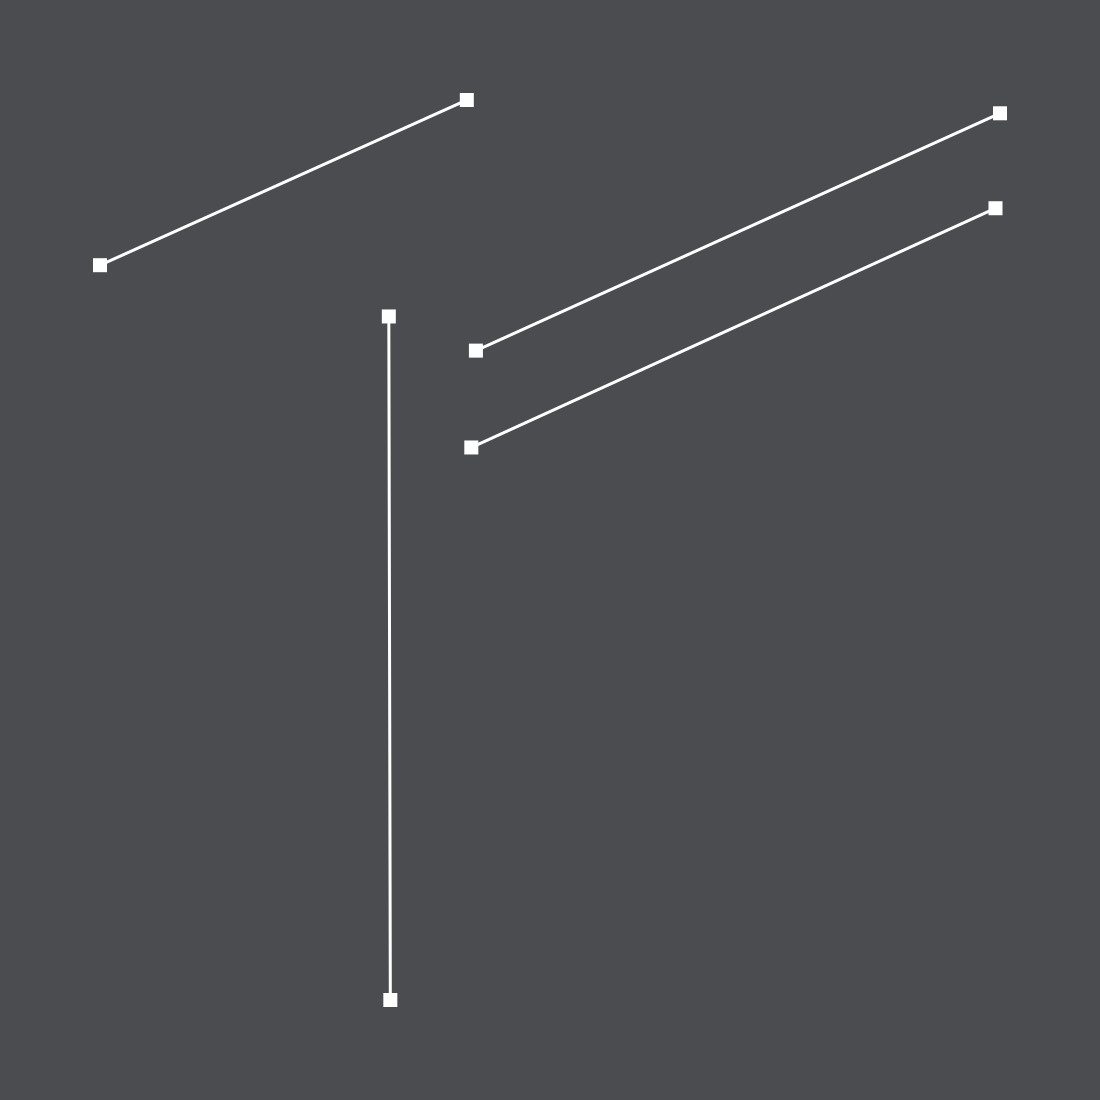
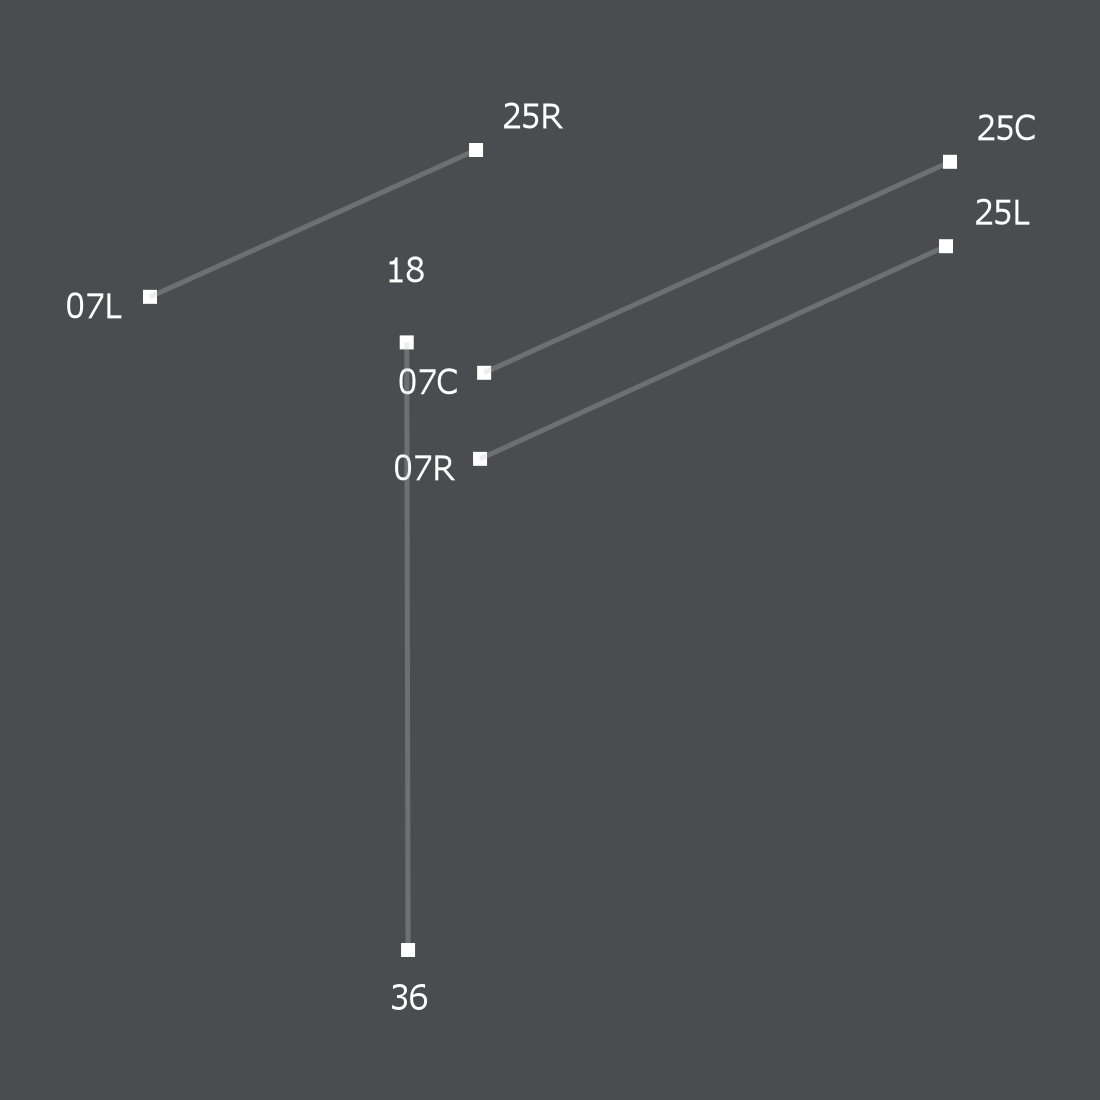
add runway mark

diff --git a/main.js b/main.js
@@ -10,28 +10,41 @@ async function parse(ICAO){
     .then(res => res.data)
     .catch(error => console.log(error));
 
+    var RWY_num=[], RWY_dir=[];
     var RWY_lat=[], RWY_lon=[];
+
+    function getHeading(RWY_num, RWY_hdg){
+        if(RWY_hdg==''){
+            RWY_num = RWY_num.replace(/[A-Za-z]/g, ''); // Remove Alphabet
+            if (RWY_num.startsWith('0')) { RWY_num = RWY_num.substring(1) * 10; }
+            else {RWY_num = RWY_num * 10; }
+
+            return RWY_num;
+        } else { return RWY_hdg; } 
+    }
+
     for(i=0; i<json_ADB.runways.length; i++){
         let data = json_ADB.runways[i];
+        // Latitude
         RWY_lat.push(data.le_latitude_deg);
         RWY_lat.push(data.he_latitude_deg);
+        // Longitude
         RWY_lon.push(data.le_longitude_deg);
         RWY_lon.push(data.he_longitude_deg);
+        // Runway Number
+        RWY_num.push(data.le_ident);
+        RWY_num.push(data.he_ident);
+        // Runway Heading
+        let RWYHDG_le = json_ADB.runways[i].le_heading_degT;
+        let RWYHDG_he = json_ADB.runways[i].he_heading_degT;
+        RWY_dir.push(getHeading(data.le_ident, RWYHDG_le));
+        RWY_dir.push(getHeading(data.he_ident, RWYHDG_he));
     }
-    return [RWY_lat, RWY_lon];
+    return [RWY_lat, RWY_lon, RWY_num, RWY_dir];
 }
 
-function draw_runway(lat, lon, ICAO){
-    // draw using the canvas
-    const cvs = createCanvas(1100, 1100);   // canvas size (Square for better result)
-    const ctx = cvs.getContext('2d');
-    const gap = 100;    //  white space
-    const canvasSize = 1100-2*gap;  // canvas width - 2 x gap
-
-    // background color
-    ctx.fillStyle = "#4a4c4f";
-    ctx.fillRect(0, 0, cvs.width, cvs.height);
-
+async function logic(RWY_dir, lat, lon, canvasSize){
+    // Adjust the position to fit the size of canvas
     let longitudes = lon.map(Number);
     let latitudes = lat.map(Number);
 
@@ -46,19 +59,75 @@ function draw_runway(lat, lon, ICAO){
         return [x, y];
     });
 
+    function logic_(x, y, deg, r){
+        const pi = Math.PI;
+        if(deg>=0 && deg<=90){
+            deg = 90-deg;
+            let rad = deg*pi/180;
+            return [x+r*Math.cos(rad), y+r*Math.sin(rad)];
+        } else if(deg>90 && deg<=180){
+            deg = deg-90;
+            let rad = deg*pi/180;
+            return [x+r*Math.cos(rad), y-r*Math.sin(rad)];
+        } else if(deg>180 && deg<=270){
+            deg = 270-deg;
+            let rad = deg*pi/180;
+            return [x-r*Math.cos(rad), y-r*Math.sin(rad)];
+        } else if(deg>270 && deg<360){
+            deg = deg-270;
+            let rad = deg*pi/180;
+            return [x-r*Math.cos(rad), y+r*Math.sin(rad)];
+        }
+    }
+
+    var mark_point=[];
+    for(i=0; i<RWY_dir.length; i++){
+        let hdg = Math.floor(Number(RWY_dir[i]));
+        let opposite_hdg = hdg>180 ? hdg-180 : hdg+180;
+        mark_point.push(logic_(adjusted_point[i][0], adjusted_point[i][1], opposite_hdg, 60));
+    }
+    return [mark_point, adjusted_point];
+}
+
+async function draw_runway(RWY_num, RWY_lat, RWY_lon, RWY_dir, ICAO){
+    // draw using the canvas
+    const cvs = createCanvas(1100, 1100);   // canvas size (Square for better result)
+    const ctx = cvs.getContext('2d');
+    const gap = 150;    //  white space
+    const canvasSize = 1100-2*gap;  // canvas width - 2 x gap
+
+    let point_array = await logic(RWY_dir, RWY_lat, RWY_lon, canvasSize);
+    const mark_point = point_array[0];
+    const adjusted_point = point_array[1];
+
+    // background color
+    ctx.fillStyle = "#4a4c4f";
+    ctx.fillRect(0, 0, cvs.width, cvs.height);
+
     ctx.fillStyle = "#ffffff";
-    for(i=0; i<adjusted_point.length; i++){
+    for(i=0; i<RWY_lat.length; i++){
         if((i+1)%2==0){
             ctx.beginPath();    
             ctx.moveTo(adjusted_point[i-1][0]+gap, 1100-(adjusted_point[i-1][1]+gap));
             ctx.lineTo(adjusted_point[i][0]+gap, 1100-(adjusted_point[i][1]+gap));
-            ctx.strokeStyle = '#ffffff';
-            ctx.lineWidth=3;
+            ctx.strokeStyle = '#c2c2c2';
+            ctx.lineWidth=5;
+            ctx.globalAlpha = 0.3;
             ctx.stroke();
         }
+        ctx.globalAlpha = 1;
         ctx.beginPath();
         ctx.roundRect(adjusted_point[i][0]+gap-7, 1100-(adjusted_point[i][1]+gap)-7, 14, 14);
         ctx.fill();
+        try{
+            ctx.beginPath();
+            ctx.font = '35px Impact';
+            let rwy_mark = RWY_num[i];
+            let textwidth = ctx.measureText(rwy_mark).width;
+            ctx.fillText(RWY_num[i], mark_point[i][0]+gap-textwidth/2, 1100-(mark_point[i][1]+gap))
+        } catch {
+            continue;
+        }
     }
 
     const buffer = cvs.toBuffer('image/png');
@@ -67,9 +136,12 @@ function draw_runway(lat, lon, ICAO){
 
 async function main(ICAO){
     let array = await parse(ICAO);
-    let RWY_lat = array[0];  // Latitudes of Runways
-    let RWY_lon = array[1];  // Longitudes of Runways
-    draw_runway(RWY_lat, RWY_lon, ICAO);
+    let RWY_lat = array[0]; // Latitudes of Runways
+    let RWY_lon = array[1]; // Longitudes of Runways
+    let RWY_num = array[2]; // Runway Number
+    let RWY_dir = array[3]; // Runway Heading
+
+    draw_runway(RWY_num, RWY_lat, RWY_lon, RWY_dir, ICAO);
 }
 
 main("EDDF");
